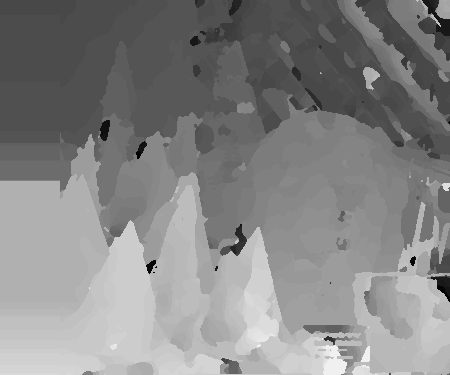
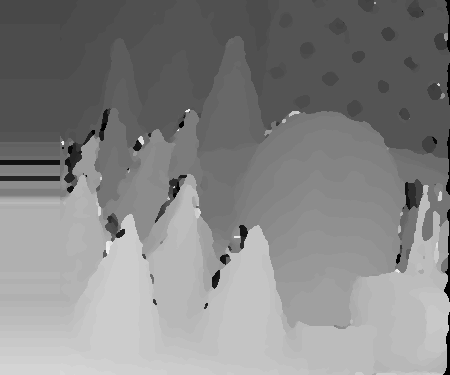
final

diff --git a/computeDisp.py b/computeDisp.py
@@ -12,6 +12,88 @@ PROGRESS_BAR = True
 DEBUG_SAVE_IMG = False
 
 
+class BinaryCost:
+    def __init__(self, img1, img2, pair, half_wd=13, num_pair=4096):
+        self.img1 = img1
+        self.img2 = img2
+        self.num_pair = num_pair
+
+        self.first_y = pair[0]
+        self.first_x = pair[1]
+        self.second_y = pair[2]
+        self.second_x = pair[3]
+        self.half_wd = half_wd
+
+    def set_bits(self):
+        h, w = self.img1.shape
+        self.left_bits = np.zeros((h, w, self.num_pair), dtype=bool)
+        self.right_bits = np.zeros((h, w, self.num_pair), dtype=bool)
+
+        if PROGRESS_BAR:
+            pbar = tqdm(desc="set bits", total=h - 2 * self.half_wd, position=0)
+
+        for y in range(self.half_wd, h - self.half_wd):
+            for x in range(self.half_wd, w - self.half_wd):
+                left_bits, right_bits = self.get_bits(y, x, 0)
+                self.left_bits[y - self.half_wd, x - self.half_wd] = left_bits
+                self.right_bits[y - self.half_wd, x - self.half_wd] = right_bits
+                del left_bits, right_bits
+            if PROGRESS_BAR:
+                pbar.update()
+        if PROGRESS_BAR:
+            pbar.close()
+
+    def get_bits(self, y_pos, x_pos, sft):
+        self.select_patch_11 = self.img1[y_pos + self.first_y, x_pos + self.first_x]
+        self.select_patch_12 = self.img1[y_pos + self.second_y, x_pos + self.second_x]
+
+        self.select_patch_21 = self.img2[
+            y_pos + self.first_y, x_pos - sft + self.first_x
+        ]
+        self.select_patch_22 = self.img2[
+            y_pos + self.second_y, x_pos - sft + self.second_x
+        ]
+
+        result_patch_1 = self.select_patch_11 > self.select_patch_12
+        result_patch_2 = self.select_patch_21 > self.select_patch_22
+        del (
+            self.select_patch_11,
+            self.select_patch_12,
+            self.select_patch_21,
+            self.select_patch_22,
+        )
+
+        return result_patch_1, result_patch_2
+
+
+def get_random_pair(num_pair=4096):
+
+    pair_seq = np.random.normal(0.0, 4.0, num_pair * 4)
+    pair_seq = np.clip(pair_seq, -13, 13).astype(np.int_)
+
+    first_y = pair_seq[:num_pair]
+    first_x = pair_seq[num_pair : num_pair * 2]
+    second_y = pair_seq[num_pair * 2 : num_pair * 3]
+    second_x = pair_seq[num_pair * 3 :]
+
+    return (first_y, first_x, second_y, second_x)
+
+
+def correlation_coefficient(patch1, patch2):
+    product = np.mean((patch1 - patch1.mean()) * (patch2 - patch2.mean()))
+    stds = patch1.std() * patch2.std()
+    if stds == 0:
+        return 0
+    else:
+        product /= stds
+        return product
+
+
+def normalize(patch):
+    nor_patch = (patch - np.mean(patch)) / np.std(patch) + 10e-8
+    return nor_patch
+
+
 def evaluate(input_path, gt_path, scale_factor, threshold=1.0):
     disp_gt = cv2.imread(gt_path, -1)
     disp_gt = np.int32(disp_gt / scale_factor)
@@ -34,12 +116,12 @@ def evaluate(input_path, gt_path, scale_factor, threshold=1.0):
 def computeDisp(Il, Ir, max_disp):
 
     h, w, ch = Il.shape
-    kernel_size = 15  # should be odd
+    kernel_size = 26
     half_kernel_width = int(kernel_size / 2)
 
     # bilateral filter to smooth the image for a better result
-    Il_bilateral = cv2.bilateralFilter(src=Il, d=3, sigmaColor=21, sigmaSpace=21)
-    Ir_bilateral = cv2.bilateralFilter(src=Ir, d=3, sigmaColor=21, sigmaSpace=21)
+    Il_bilateral = cv2.bilateralFilter(src=Il, d=5, sigmaColor=21, sigmaSpace=21)
+    Ir_bilateral = cv2.bilateralFilter(src=Ir, d=5, sigmaColor=21, sigmaSpace=21)
 
     # convert images to greyscale
     Il_grey = cv2.cvtColor(Il_bilateral, cv2.COLOR_BGR2GRAY).astype(np.float32)
@@ -59,89 +141,60 @@ def computeDisp(Il, Ir, max_disp):
         src=Ir_grey,
         top=half_kernel_width,
         bottom=half_kernel_width,
-        left=half_kernel_width + max_disp,
+        left=half_kernel_width,
         right=half_kernel_width,
         borderType=cv2.BORDER_CONSTANT,
         value=[0, 0, 0],  # black
     )
 
+    pairs = get_random_pair()
+    bincost = BinaryCost(
+        img1=Il_pad, img2=Ir_pad, pair=pairs, half_wd=half_kernel_width
+    )
+    bincost.set_bits()
+
     # cost
-    sd_cost = np.zeros((h, w, max_disp + 1), dtype=np.float32)
-    windows_cost = np.zeros((h, w, max_disp + 1), dtype=np.float32)
+    cost_map = np.full((h, w, max_disp + 1), fill_value=np.inf, dtype=np.float32)
 
     if PROGRESS_BAR:
-        pbar = tqdm(desc="SSD", total=max_disp + 1, position=0)
+        pbar = tqdm(desc="cost", total=h, position=0)
 
-    # ----- cost computation -----
-    for offset in range(max_disp + 1):
-        # differences
-        img_diff = (
-            Il_pad
-            - Ir_pad[
-                :, max_disp - offset : max_disp - offset + w + 2 * half_kernel_width
-            ]
-        )
-        # squared differences
-        img_sd = img_diff ** 2
-        # img_sd = np.abs(img_diff)
+    for y in range(half_kernel_width, half_kernel_width + h):
+        for x in range(half_kernel_width, half_kernel_width + w):
+            top = y - half_kernel_width
+            left = x - half_kernel_width
+            bot = y + half_kernel_width + 1
+            right = x + half_kernel_width + 1
+            left_bits = bincost.left_bits[y - half_kernel_width, x - half_kernel_width]
 
-        sd_cost[:, :, offset] = img_sd[
-            half_kernel_width:-half_kernel_width, half_kernel_width:-half_kernel_width
-        ]
-
-        census_x = half_kernel_width
-        census_y = half_kernel_width
-
-        for y in range(half_kernel_width, half_kernel_width + h):
-            for x in range(half_kernel_width, half_kernel_width + w):
-                # kernel window of both images
-                Il_window = Il_pad[
-                    y - half_kernel_width : y + half_kernel_width,
-                    x - half_kernel_width : x + half_kernel_width,
-                ]
-                Ir_window = Ir_pad[
-                    y - half_kernel_width : y + half_kernel_width,
-                    x
-                    + max_disp
-                    - half_kernel_width
-                    - offset : x
-                    + max_disp
-                    + half_kernel_width
-                    - offset,
-                ]
-
-                window_cost_temp = (Il_window != Ir_window).sum()
-                windows_cost[
-                    y - half_kernel_width, x - half_kernel_width, offset
-                ] = window_cost_temp
-
-        cost_map = 2 - np.exp(-sd_cost / 10) - np.exp(-windows_cost / 10)
+            for shift in range(max_disp):
+                if left - shift >= 0:
+                    right_bits = bincost.right_bits[
+                        y - half_kernel_width, x - half_kernel_width - shift
+                    ]
+                    match_cost = np.sum(np.logical_xor(left_bits, right_bits))
+                    cost_map[
+                        y - half_kernel_width, x - half_kernel_width, shift
+                    ] = match_cost
+                    del right_bits, match_cost
 
         if PROGRESS_BAR:
             pbar.update()
     if PROGRESS_BAR:
         pbar.close()
 
-    # ----- cost aggregation -----
     smooth_cost_map = np.empty_like(cost_map)
     for offset in range(max_disp + 1):
-        # smooth the cost_map with guided filter and median filter
-        smooth_cost_map[:, :, offset] = cv2.ximgproc.guidedFilter(
-            guide=Il_grey, src=cost_map[:, :, offset], radius=8, eps=100, dDepth=-1
-        )
-        smooth_cost_map[:, :, offset] = cv2.medianBlur(
-            smooth_cost_map[:, :, offset], ksize=3
-        )
+        # smooth the cost_map with median filter
+        smooth_cost_map[:, :, offset] = cv2.medianBlur(cost_map[:, :, offset], ksize=3)
 
-    # ----- disparity optimization -----
     min_cost_map = np.argmin(smooth_cost_map, axis=2)
 
-    # ----- disparity refinement -----
     # smooth the disparity with median filter
     disp_map = cv2.medianBlur(min_cost_map.astype(np.uint8), ksize=3)
     # get rid of the leftmost black pixel
     for offset in range(max_disp):
-        disp_map[:, offset] = disp_map[:, max_disp + 8]
+        disp_map[:, offset] = disp_map[:, max_disp + 5]
 
     if DEBUG_SAVE_IMG:
         cv2.imwrite("./debug/tsukuba_min_cost.png", np.uint8(min_cost_map * 16))
